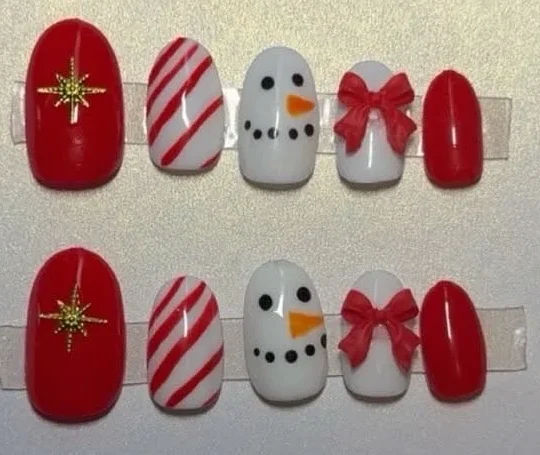
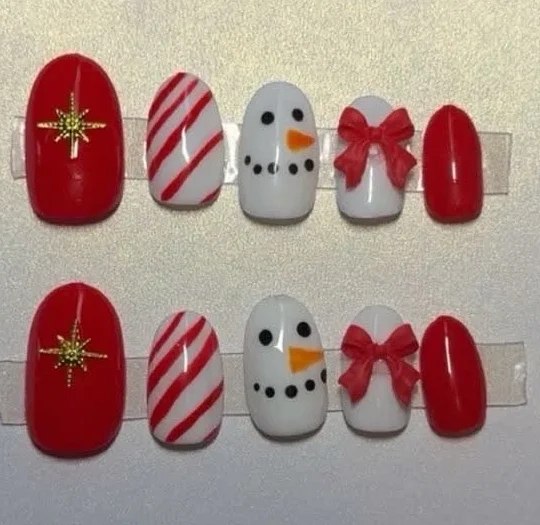
Set photos: a little space above and below the nails

diff --git a/index.html b/index.html
@@ -95,7 +95,7 @@ footer a.fl+a.fl{margin-left:18px}
 .box p a{color:inherit;text-decoration:underline;text-underline-offset:3px}
 .work-grid{max-width:760px;margin:0 auto}
 .work-grid>.card{flex-basis:calc((100% - 26px)/2)}
-.card img.work{display:block;width:100%;height:auto;aspect-ratio:560/460;object-fit:cover;background:#eee}
+.card img.work{display:block;width:100%;height:auto;background:#eee}
 @media(max-width:660px){.work-grid>.card{flex-basis:100%}}
 .csteps{grid-template-columns:repeat(2,1fr);max-width:760px;margin:0 auto}
 .need{margin:8px auto 0;padding:0;list-style:none;display:inline-block;text-align:left}
